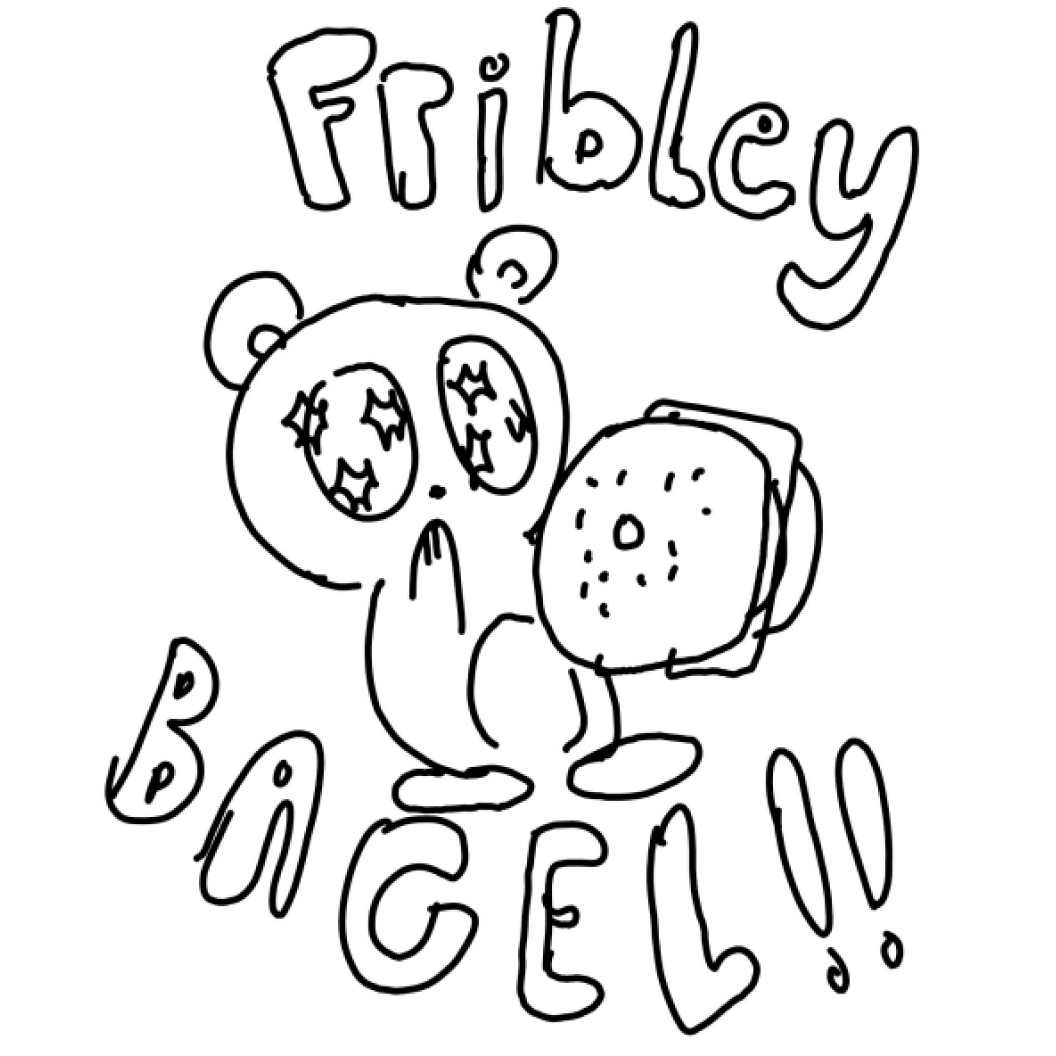
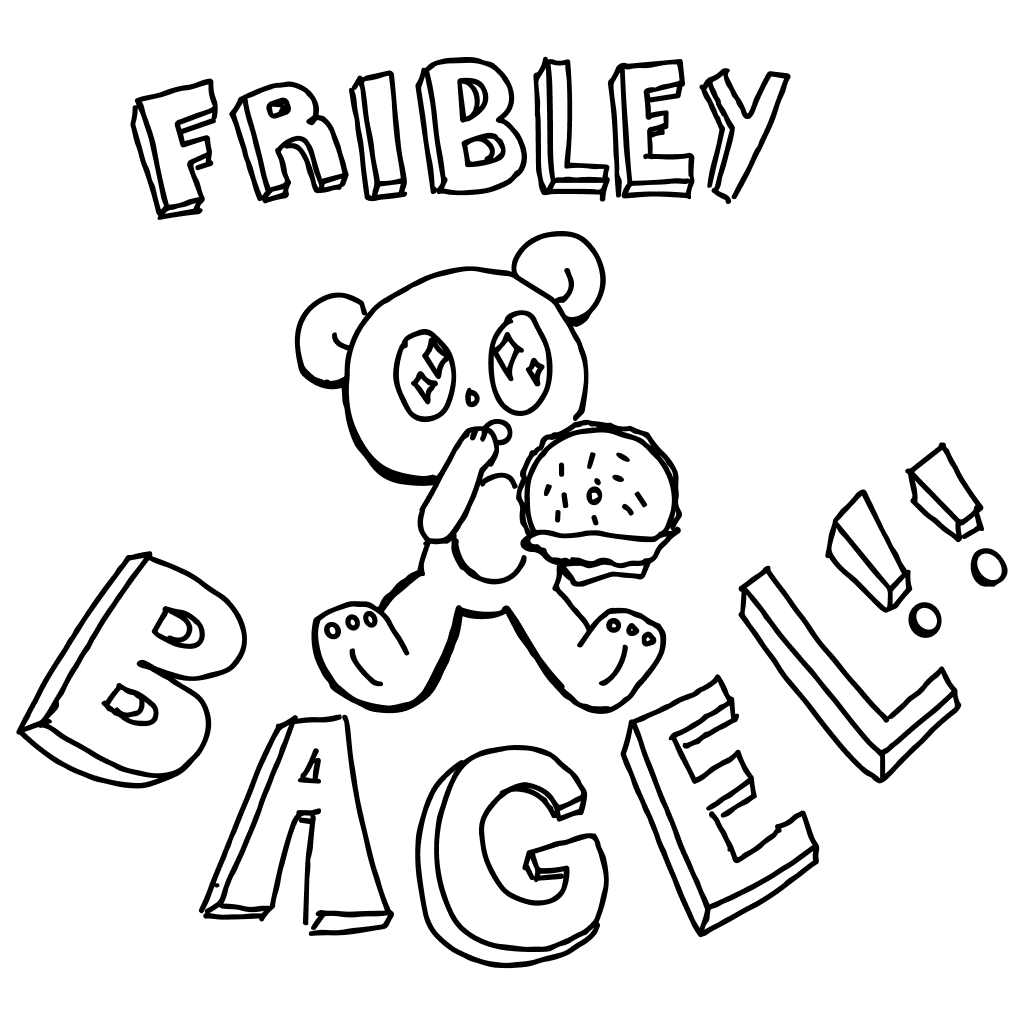
Update images, confirmation modal (#88)
* update about page design image

* update timer, submission card confirmation

Changed region(s): [[0.0, 0.0, 0.9375, 1.0], [0.8125, 0.4375, 1.0, 0.625], [0.3125, 0.0, 0.3438, 0.0312]]

diff --git a/src/components/submit/SubmissionCard.tsx b/src/components/submit/SubmissionCard.tsx
@@ -1,6 +1,10 @@
 import Image from "next/image";
 import React from "react";
 
+import { Icons } from "../icons";
+import { FontAwesomeIcon } from "@fortawesome/react-fontawesome";
+import { faHeart } from "@fortawesome/free-regular-svg-icons";
+
 type SubmissionCardProps = {
     mockupImageUrl: string;
     username: string;
@@ -24,10 +28,16 @@ const SubmissionCard: React.FC<SubmissionCardProps> = ({
                     priority={true}
                 />
             </div>
-            <div className="border-t-2 border-gray w-full"></div>
             <div className="flex justify-between items-center mx-4 py-2">
                 <p className="text-gray-800 text-xl">@{username}</p>
-                <p className="text-gray-600 text-xs">today</p>
+                <div className="flex space-x-2 items-center">
+                    <Icons.share className="w-7 h-7" />
+                    <FontAwesomeIcon
+                        icon={faHeart}
+                        color="black"
+                        className="w-5 h-5"
+                    />
+                </div>
             </div>
         </div>
     );

diff --git a/src/components/CustomLoader.tsx b/src/components/CustomLoader.tsx
@@ -36,7 +36,7 @@ const CustomLoader: React.FC<CustomLoaderProps> = ({ src }) => {
   };
 
   useEffect(() => {
-    const randomTime = Math.random() * 500 + 750;
+    const randomTime = Math.random() * 500 + 1000;
     const intervalId = setInterval(updateMessage, randomTime);
     return () => clearInterval(intervalId);
   }, []);
